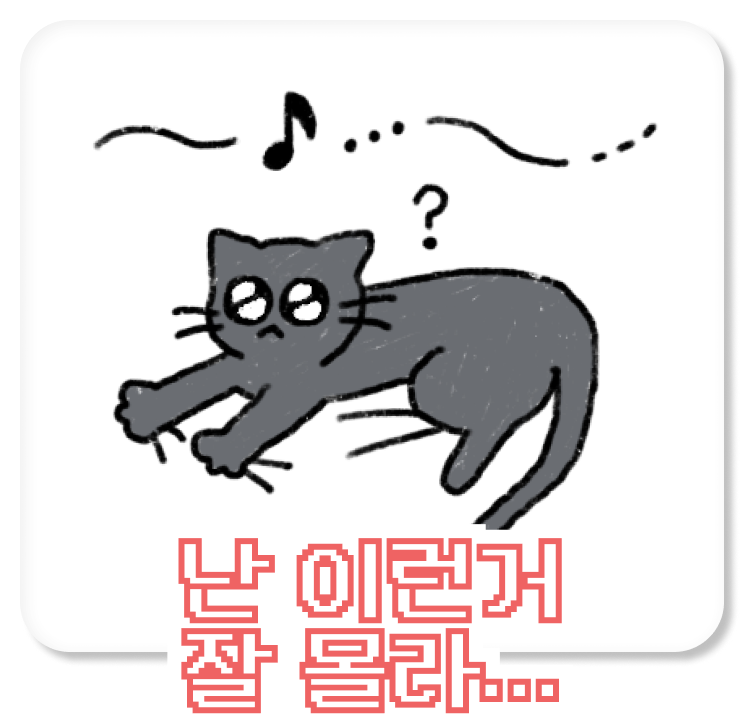
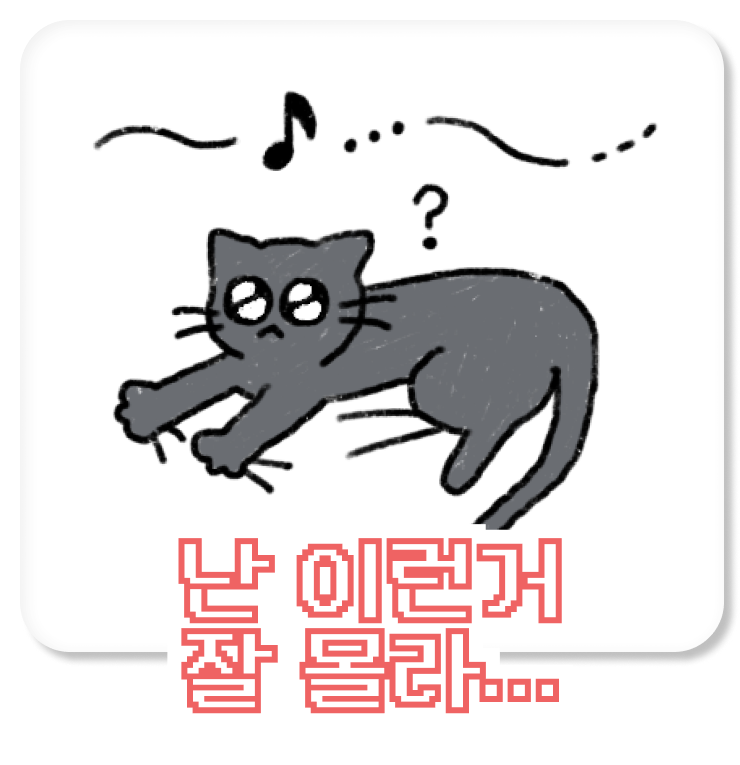
Style : 결과 이미지 수정

diff --git a/src/styles/resultStyle.jsx b/src/styles/resultStyle.jsx
@@ -56,6 +56,8 @@ const setResultImg = (img) => {
     case 'result4':
         return css`
             background-image:url("/result4.png");
+            width: 370px;
+            height: 369px;
         `
     case 'result5':
         return css`
